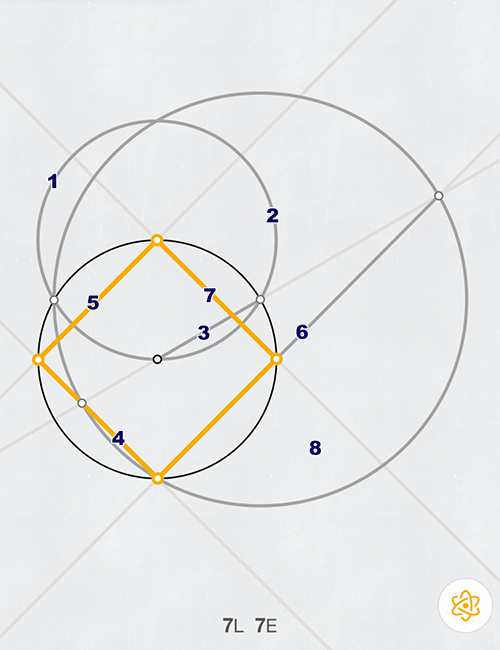
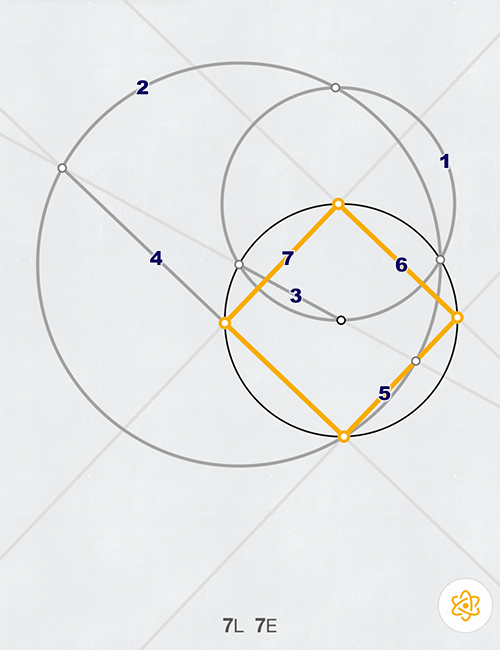
增加1.7.7E解及证明

diff --git a/1.Alpha.md b/1.Alpha.md
@@ -43,6 +43,7 @@
 + *6L*步骤：线，垂分，线，线，线，线
 - *6L*解题思路：圆内接正方形的两条对角线通过圆心，并互为垂分线。[参考图](solved/1.7.6L.png)
 + *7E*步骤：圆，圆，线，线，线，线，线
-- *7E*解题思路：此解为技巧解，在探索模式下完成图里的数字为步骤顺序。[参考图](solved/1.7.7E.png)
-- *7E*证明：【待求证】
+- *7E*解题思路：用两个圆获取对向顶点，用圆周角定理在对向顶点作90°角。[参考图](solved/1.7.7E.png)
++ *7E*证明：[图1](prove/1.7.7E.P1.png) 如图作两个圆；圆o和圆a大小一致，故ao和bc互为垂分线相交于j；∠ajb＝90°，bi=2bj，根据勾股定理，∠ibj=60°，可证得ibdc为菱形；故aod在同一直线上，a点d点为所求正方形的两个对角顶点。[图2](prove/1.7.7E.P2.png)连接ob，延长线与圆b相当于e，做圆周角∠edg＝90°；由图1可得△bcd为等边三角形，∠odb＝∠obd=30°；∠obd同时也是圆b的圆心角，所以∠bed＝∠bde=15°；故∠odf＝30°+15°=45°，∠odg=90°-45°=45°；故f点和h点为所求正方形的另外两个对角顶点。
+
 
